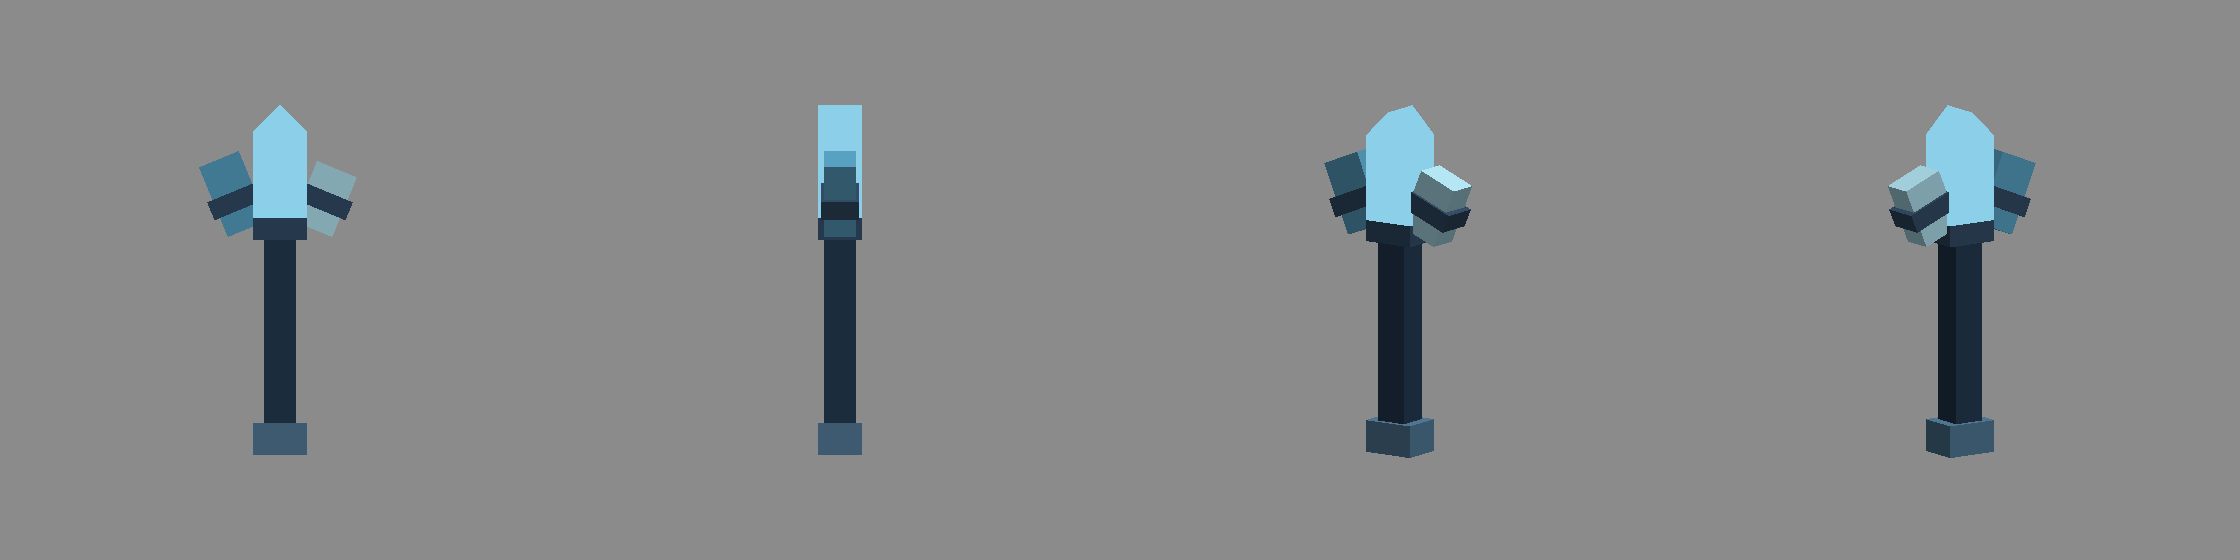
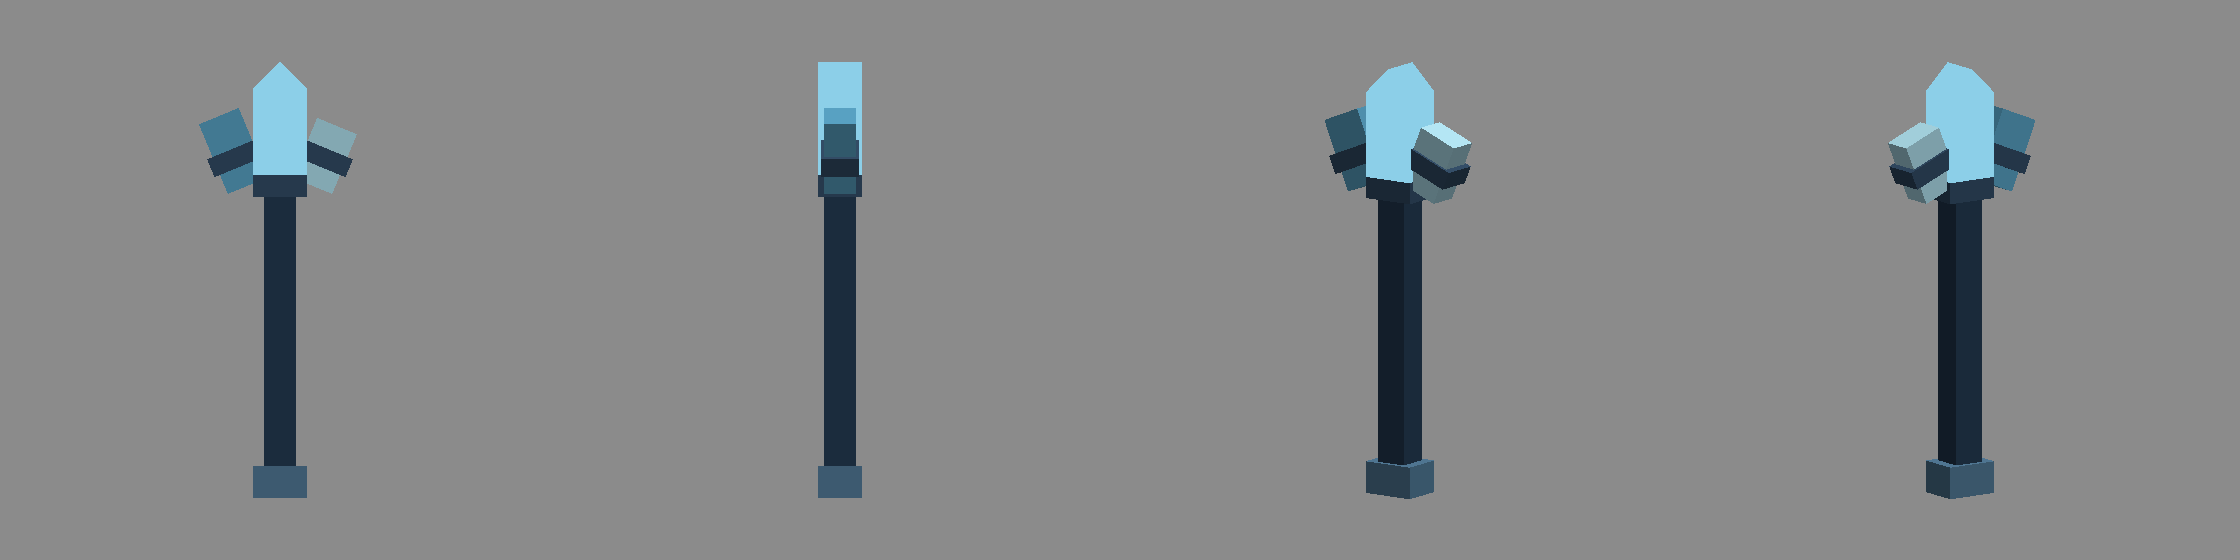
FluxDungeons: Coeur-de-Givre made taller instead of scaled up

diff --git a/FluxDungeons/assets/armes/gen_armes.py b/FluxDungeons/assets/armes/gen_armes.py
@@ -349,7 +349,7 @@ def reliquaire_aube():
 
 
 def coeur_de_givre():
-    """Cryomancer's staff, 32 units tall: a dark frozen shaft, three crystals set as one cluster, nothing floating."""
+    """Cryomancer's staff, 40 units tall: a dark frozen shaft, three crystals set as one cluster, nothing floating."""
     w = Weapon("coeur_de_givre", "Cœur-de-Givre", "Cryomancien",
                "Grand bâton à deux mains : manche de bois sombre pris sous une fine couche de glace, terminaison "
                "minérale en bas ; au sommet, trois cristaux imbriqués (un grand cristal central à pointe, un cristal "
@@ -391,11 +391,13 @@ def coeur_de_givre():
                  "cristal_sombre": crystal("#5CA7C9", "#8CCFE8", "#397C9D", "#B5E7F5"),
                  "cristal_clair": crystal("#B5E7F5", "#D9F5FF", "#8CCFE8", "#D9F5FF")}
     w.group("socle")
-    w.box("socle", [5.5, -8, 6], [10.5, -5, 10], "socle", note="terminaison minérale, 5 x 3 x 4")
+    w.box("socle", [5.5, -16, 6], [10.5, -13, 10], "socle", note="terminaison minérale, 5 x 3 x 4")
     w.group("manche")
-    # two cubes of 11: a face never stretches its texture beyond 16 units
-    w.box("manche_bas", [6.5, -5, 6.5], [9.5, 4, 9.5], "bois_gele", note="zone de prise")
-    w.box("manche_haut", [6.5, 4, 6.5], [9.5, 13, 9.5], "bois_gele")
+    # three cubes of 9: a face never stretches its texture beyond 16 units. The shaft is long on purpose: the staff
+    # looks imposing in the hand by its height, the head keeps its size (owner's call, 2026-11-20)
+    w.box("manche_bas", [6.5, -13, 6.5], [9.5, -4, 9.5], "bois_gele")
+    w.box("manche_milieu", [6.5, -4, 6.5], [9.5, 5, 9.5], "bois_gele", note="zone de prise")
+    w.box("manche_haut", [6.5, 5, 6.5], [9.5, 13, 9.5], "bois_gele")
     w.group("fixations")
     w.box("collier", [5.5, 12, 6], [10.5, 14, 10], "metal_gele", note="porte les trois cristaux")
     w.box("griffe_g", [1.4, 14.6, 6.2], [6.0, 16.4, 9.8], "metal_gele", ("z", 22.5), "serre le cristal de gauche")
@@ -497,10 +499,9 @@ DISPLAYS = {
     "sylve_celeste": ("bow", 135, (8.1, 8, 8), (25, 0.55), (-90, 0.36)),
     "sceptre_neant": ("handheld", 45, (8, 2, 8), (-47, 0.66), (10, 0.36)),
     "reliquaire_aube": ("handheld", 45, (8, 2.85, 8), (-47, 0.66), (10, 0.36)),
-    # The weapons of the elemental classes are 30 to 32 units tall against 47 for the first staves: held larger in
-    # third person so they stay two-handed weapons, and much larger in first person, where the owner wants them
-    # imposing on the screen (2026-11-20). Keep that first person scale for the next ones.
-    "coeur_de_givre": ("handheld", 45, (8, 2, 8), (-47, 0.95), (10, 0.66)),
+    # Cryomancer's staff: 40 units tall, the fist low on the shaft so the head stands high on the screen. An imposing
+    # weapon is a tall one: scaling it up in first person only made its head huge (tried 2026-11-20).
+    "coeur_de_givre": ("handheld", 45, (8, -3, 8), (-47, 0.76), (10, 0.46)),
     "tison_soleil": ("handheld", 45, (8, -1, 8), (-32, 0.95), (0, 0.62)),
 }
 # Spin of the weapon around its own axis (degrees) before it is held: the bow was held back to front in game, its

diff --git a/FluxDungeons/assets/armes/FICHES.md b/FluxDungeons/assets/armes/FICHES.md
@@ -347,13 +347,13 @@ Grand bâton à deux mains : manche de bois sombre pris sous une fine couche de 
 
 | Dimension | Valeur |
 |---|---|
-| Longueur (Y) | 32.5 (de -8 à 24.5) |
+| Longueur (Y) | 40.5 (de -16 à 24.5) |
 | Largeur max (X) | 14.67 (de 0.473 à 15.144) |
 | Épaisseur max (Z) | 4 |
-| Prise (point tenu par le poing) | (8, 2, 8) |
-| Centre visuel (milieu de l'encombrement) | (7.809, 8.25, 8) |
-| Longueur en main, 3e personne | 30.875 px de joueur (joueur = 32) |
-| Nombre de cubes | **10** |
+| Prise (point tenu par le poing) | (8, -3, 8) |
+| Centre visuel (milieu de l'encombrement) | (7.809, 4.25, 8) |
+| Longueur en main, 3e personne | 30.78 px de joueur (joueur = 32) |
+| Nombre de cubes | **11** |
 
 Palette :
 
@@ -366,33 +366,34 @@ Palette :
 | `cristal_clair` | Cristal de droite `#B5E7F5` |  |
 | `metal_gele` | Métal ancien gelé `#354F69` |  |
 
-Hiérarchie (groupes, dans l'ordre de construction) : `socle` (1), `manche` (2), `fixations` (3), `cristaux` (4)
+Hiérarchie (groupes, dans l'ordre de construction) : `socle` (1), `manche` (3), `fixations` (3), `cristaux` (4)
 
 | # | Groupe | Cube | De (x, y, z) | À (x, y, z) | Taille | Rotation | Matériau | Note |
 |---|---|---|---|---|---|---|---|---|
-| 1 | socle | `socle` | 5.5 -8 6 | 10.5 -5 10 | 5 × 3 × 4 |  | `socle` | terminaison minérale, 5 x 3 x 4 |
-| 2 | manche | `manche_bas` | 6.5 -5 6.5 | 9.5 4 9.5 | 3 × 9 × 3 |  | `bois_gele` | zone de prise |
-| 3 | manche | `manche_haut` | 6.5 4 6.5 | 9.5 13 9.5 | 3 × 9 × 3 |  | `bois_gele` |  |
-| 4 | fixations | `collier` | 5.5 12 6 | 10.5 14 10 | 5 × 2 × 4 |  | `metal_gele` | porte les trois cristaux |
-| 5 | fixations | `griffe_g` | 1.4 14.6 6.2 | 6 16.4 9.8 | 4.6 × 1.8 × 3.6 | Z 22.5° autour de (3.7, 15.5, 8) | `metal_gele` | serre le cristal de gauche |
-| 6 | fixations | `griffe_d` | 10 14.6 6.2 | 14.6 16.4 9.8 | 4.6 × 1.8 × 3.6 | Z -22.5° autour de (12.3, 15.5, 8) | `metal_gele` | serre le cristal de droite |
-| 7 | cristaux | `cristal_central` | 5.5 14 6 | 10.5 22 10 | 5 × 8 × 4 |  | `cristal` | élément principal, 5 x 8 x 4 |
-| 8 | cristaux | `cristal_pointe` | 6.232 20.232 6 | 9.768 23.768 10 | 3.536 × 3.536 × 4 | Z 45° autour de (8, 22, 8) | `cristal` | pointe du cristal central |
-| 9 | cristaux | `cristal_gauche` | 1.661 12.734 6.5 | 5.661 19.734 9.5 | 4 × 7 × 3 | Z 22.5° autour de (3.661, 16.234, 8) | `cristal_sombre` | penché vers la gauche, 4 x 7 x 3 |
-| 10 | cristaux | `cristal_droit` | 10.148 12.772 6.5 | 14.148 18.772 9.5 | 4 × 6 × 3 | Z -22.5° autour de (12.148, 15.772, 8) | `cristal_clair` | plus court, penché vers la droite, 4 x 6 x 3 |
+| 1 | socle | `socle` | 5.5 -16 6 | 10.5 -13 10 | 5 × 3 × 4 |  | `socle` | terminaison minérale, 5 x 3 x 4 |
+| 2 | manche | `manche_bas` | 6.5 -13 6.5 | 9.5 -4 9.5 | 3 × 9 × 3 |  | `bois_gele` |  |
+| 3 | manche | `manche_milieu` | 6.5 -4 6.5 | 9.5 5 9.5 | 3 × 9 × 3 |  | `bois_gele` | zone de prise |
+| 4 | manche | `manche_haut` | 6.5 5 6.5 | 9.5 13 9.5 | 3 × 8 × 3 |  | `bois_gele` |  |
+| 5 | fixations | `collier` | 5.5 12 6 | 10.5 14 10 | 5 × 2 × 4 |  | `metal_gele` | porte les trois cristaux |
+| 6 | fixations | `griffe_g` | 1.4 14.6 6.2 | 6 16.4 9.8 | 4.6 × 1.8 × 3.6 | Z 22.5° autour de (3.7, 15.5, 8) | `metal_gele` | serre le cristal de gauche |
+| 7 | fixations | `griffe_d` | 10 14.6 6.2 | 14.6 16.4 9.8 | 4.6 × 1.8 × 3.6 | Z -22.5° autour de (12.3, 15.5, 8) | `metal_gele` | serre le cristal de droite |
+| 8 | cristaux | `cristal_central` | 5.5 14 6 | 10.5 22 10 | 5 × 8 × 4 |  | `cristal` | élément principal, 5 x 8 x 4 |
+| 9 | cristaux | `cristal_pointe` | 6.232 20.232 6 | 9.768 23.768 10 | 3.536 × 3.536 × 4 | Z 45° autour de (8, 22, 8) | `cristal` | pointe du cristal central |
+| 10 | cristaux | `cristal_gauche` | 1.661 12.734 6.5 | 5.661 19.734 9.5 | 4 × 7 × 3 | Z 22.5° autour de (3.661, 16.234, 8) | `cristal_sombre` | penché vers la gauche, 4 x 7 x 3 |
+| 11 | cristaux | `cristal_droit` | 10.148 12.772 6.5 | 14.148 18.772 9.5 | 4 × 6 × 3 | Z -22.5° autour de (12.148, 15.772, 8) | `cristal_clair` | plus court, penché vers la droite, 4 x 6 x 3 |
 
 Affichages (`display` du modèle) :
 
 | Contexte | Rotation | Translation | Échelle |
 |---|---|---|---|
-| `thirdperson_righthand` | 0 -90 -37 | 0 3.23 4.87 | 0.95 |
-| `thirdperson_lefthand` | 0 90 37 | 0 3.23 4.87 | 0.95 |
-| `firstperson_righthand` | 0 -90 -10 | 1.13 3.03 0.34 | 0.66 |
-| `firstperson_lefthand` | 0 90 10 | 1.13 3.03 0.34 | 0.66 |
-| `gui` | 0 0 -45 | 0.34 0.06 0 | 0.616 |
-| `fixed` | 0 180 45 | 0.06 0.32 0 | 0.578 |
-| `on_shelf` | 0 180 45 | 0.06 0.32 0 | 0.578 |
-| `ground` | 0 0 0 | 0.06 -0.08 0 | 0.338 |
+| `thirdperson_righthand` | 0 -90 -37 | 0 5.35 6.47 | 0.76 |
+| `thirdperson_lefthand` | 0 90 37 | 0 5.35 6.47 | 0.76 |
+| `firstperson_righthand` | 0 -90 -10 | 1.13 4.12 0.53 | 0.46 |
+| `firstperson_lefthand` | 0 90 10 | 1.13 4.12 0.53 | 0.46 |
+| `gui` | 0 0 -45 | 1.71 1.48 0 | 0.506 |
+| `fixed` | 0 180 45 | 1.39 1.61 0 | 0.474 |
+| `on_shelf` | 0 180 45 | 1.39 1.61 0 | 0.474 |
+| `ground` | 0 0 0 | 0.05 1.02 0 | 0.272 |
 | `head` | 0 180 0 | 0 13 7 | 0.6 |
 
 ## Tison-Soleil (Pyromancien) : `fluxdungeons:tison_soleil`
